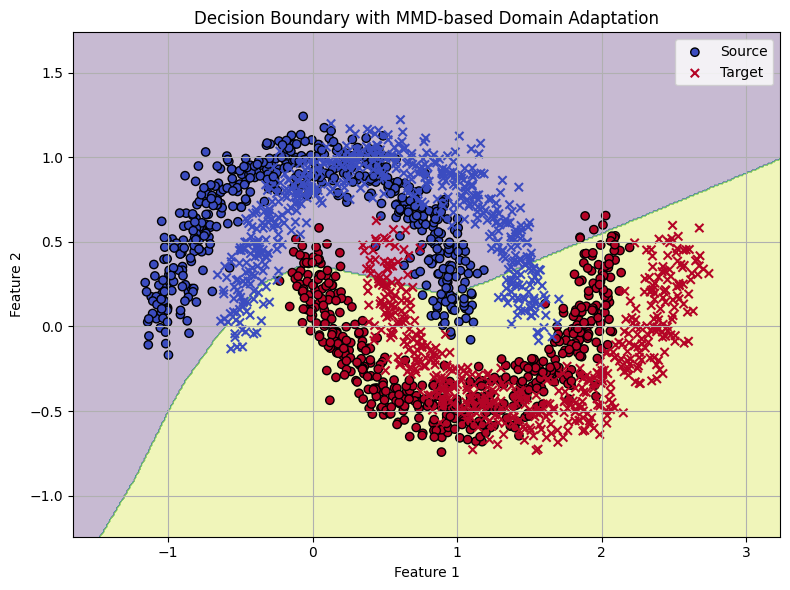
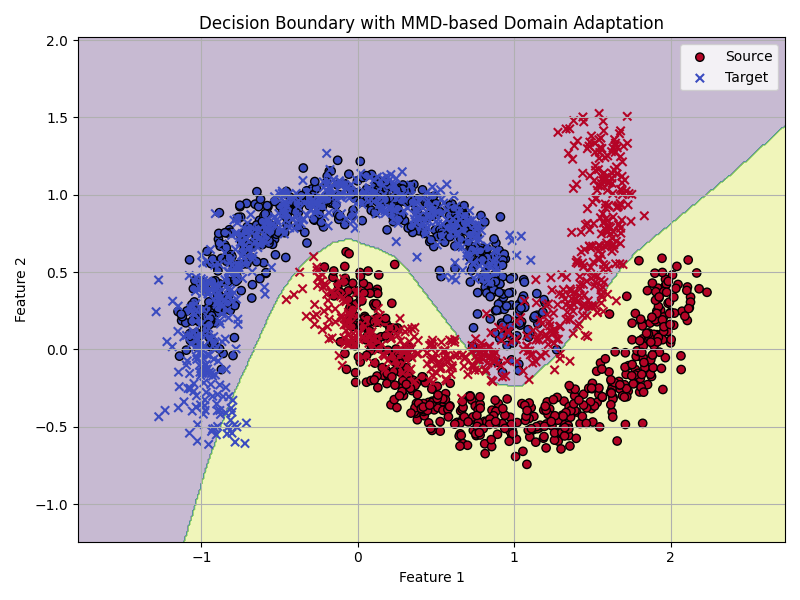
Add images for domain shift example and MMD adaptation to presentation

diff --git a/Report/presentation.tex b/Report/presentation.tex
@@ -11,12 +11,14 @@
 \usepackage{caption}
 \usepackage{adjustbox}
 \usepackage{graphicx}
-\usetheme{Madrid}
-\usecolortheme{seahorse}
+% \usetheme{Madrid}
+% \usecolortheme{seahorse}
+\usetheme{CambridgeUS}
+\usecolortheme{crane}
 
 \graphicspath{{./a/}}
 
-\title[Unsupervised Domain Adaptation]{Unsupervised Domain Adaptation}
+\title{Unsupervised Domain Adaptation}
 \author{}
 \institute{Indian Institute of Science, Bangalore}
 \date{\today}
@@ -26,46 +28,89 @@
 % Title Slide
 \frame{\titlepage}
 
-% Slide 1 - Motivation
-\begin{frame}{Motivation}
-\begin{itemize}
-    \item \textbf{Domain adaptation} aims to transfer knowledge from a source domain to a target domain with different data distributions.
-    \item In the \textbf{unsupervised} setting, only source domain data is labeled; target domain data is unlabeled.
-    \item Standard learning techniques fail due to the \textbf{domain shift}.
-    \item To address this, we train models to learn \textbf{domain-invariant features} that perform well across domains.
-\end{itemize}
-\end{frame}
-
-% Slide 2 - Setup
-\begin{frame}{Domain Adaptation Setup}
-\begin{itemize}
-    \item Input space: $\mathcal{X}$, Label space: $\mathcal{Y} = \{0, 1, \ldots, L-1\}$
-    \item \textbf{Source distribution:} $\mathcal{D}_S$ over $\mathcal{X} \times \mathcal{Y}$
-    \item \textbf{Target distribution:} $\mathcal{D}_T$ over $\mathcal{X} \times \mathcal{Y}$
-    \item Training data:
+\begin{frame}
+    \frametitle{Project Motivation}
+    Our goal is to explore the field of \textbf{Unsupervised Domain Adaptation (UDA)} and Implement some of the state-of-the-art methods.\\
+    Flow of the presentation:
     \begin{itemize}
-        \item Labeled source set: $S = \{(x_i, y_i)\}_{i=1}^{n}$
-        \item Unlabeled target set: $T = \{x_j\}_{j=1}^{n'}$
+        \item Introduction to UDA
+        \item Domain-Adversarial Training of Neural Networks (DANN)
+        \item Survey of Other Methods of UDA
+        \begin{itemize}
+            \item Divergence Based Methods
+            \item Reconstruction Based Methods
+            \item Ensemble Methods
+        \end{itemize}
+    \end{itemize}    
+
+\end{frame}
+
+\begin{frame}
+    \frametitle{What is UDA?}
+    \textbf{Domain Adaptation (DA)} is a subfield of machine learning that focuses on transferring knowledge from a source domain to a target domain with different data distributions.\\
+    \textbf{Key Idea:} The goal is to learn a model that performs well on the target domain, even when only labeled data from the source domain is available.\\
+    \textbf{Challenges:} The main challenge in UDA is the domain shift, which occurs when the source and target domains have different distributions. This can lead to poor performance of standard learning techniques.\\
+    \begin{figure}
+        \centering
+        \includegraphics[width=0.5\linewidth]{Example of Domain Shift.png}
+        \caption{Example of domain shift between source and target domains}
+    \end{figure}
+\end{frame}
+
+\begin{frame}
+    \frametitle{What is UDA?}
+    In \textbf{Unsupervised Domain Adaptation (UDA)}, only the source domain data is labeled, while the target domain data is unlabeled.\\
+
+    \textbf{Applications:} 
+    \begin{itemize}
+        \item When shifting a model trained on \textbf{synthetic data} to \textbf{real-world data}, the model may not perform well due to the differences in data distributions.
+        \item For systems like \textbf{Security Cameras} and \textbf{Autonomous Driving}, the inputs to each camera belong to different domains. So we wish to adapt the model to the new domain.
     \end{itemize}
-\end{itemize}
-\end{frame}
 
-% Slide 3 - H-Divergence
-\begin{frame}{$\mathcal{H}$-Divergence}
-\[
-d_{\mathcal{H}}(\mathcal{D}_S^X, \mathcal{D}_T^X) = 2 \sup_{\eta \in \mathcal{H}} \left| \Pr_{x \sim \mathcal{D}_S^X}[\eta(x)=1] - \Pr_{x \sim \mathcal{D}_T^X}[\eta(x)=1] \right|
-\]
+    
 
-\begin{itemize}
-    \item Measures the ability of a hypothesis $\eta \in \mathcal{H}$ to distinguish between source and target distributions.
-    \item High $d_{\mathcal{H}}$ implies easy domain discrimination — bad for transfer.
-    \item For symmetric hypothesis classes, it can be estimated via:
-    \[
-    \hat{d}_A = 2 (1 - 2\epsilon)
-    \]
-    \item Here, $\epsilon$ is the generalization error of a domain classifier.
-\end{itemize}
 \end{frame}
+% % Slide 1 - Motivation
+% \begin{frame}{Project Motivation}
+
+% \begin{itemize}
+%     \item \textbf{Domain adaptation} aims to transfer knowledge from a source domain to a target domain with different data distributions.
+%     \item In the \textbf{unsupervised} setting, only source domain data is labeled; target domain data is unlabeled.
+%     \item Standard learning techniques fail due to the \textbf{domain shift}.
+%     \item To address this, we train models to learn \textbf{domain-invariant features} that perform well across domains.
+% \end{itemize}
+% \end{frame}
+
+% % Slide 2 - Setup
+% \begin{frame}{Domain Adaptation Setup}
+% \begin{itemize}
+%     \item Input space: $\mathcal{X}$, Label space: $\mathcal{Y} = \{0, 1, \ldots, L-1\}$
+%     \item \textbf{Source distribution:} $\mathcal{D}_S$ over $\mathcal{X} \times \mathcal{Y}$
+%     \item \textbf{Target distribution:} $\mathcal{D}_T$ over $\mathcal{X} \times \mathcal{Y}$
+%     \item Training data:
+%     \begin{itemize}
+%         \item Labeled source set: $S = \{(x_i, y_i)\}_{i=1}^{n}$
+%         \item Unlabeled target set: $T = \{x_j\}_{j=1}^{n'}$
+%     \end{itemize}
+% \end{itemize}
+% \end{frame}
+
+% % Slide 3 - H-Divergence
+% \begin{frame}{$\mathcal{H}$-Divergence}
+% \[
+% d_{\mathcal{H}}(\mathcal{D}_S^X, \mathcal{D}_T^X) = 2 \sup_{\eta \in \mathcal{H}} \left| \Pr_{x \sim \mathcal{D}_S^X}[\eta(x)=1] - \Pr_{x \sim \mathcal{D}_T^X}[\eta(x)=1] \right|
+% \]
+
+% \begin{itemize}
+%     \item Measures the ability of a hypothesis $\eta \in \mathcal{H}$ to distinguish between source and target distributions.
+%     \item High $d_{\mathcal{H}}$ implies easy domain discrimination — bad for transfer.
+%     \item For symmetric hypothesis classes, it can be estimated via:
+%     \[
+%     \hat{d}_A = 2 (1 - 2\epsilon)
+%     \]
+%     \item Here, $\epsilon$ is the generalization error of a domain classifier.
+% \end{itemize}
+% \end{frame}
 
 % Slide 4 - DANN Architecture
 \begin{frame}{DANN Architecture}
@@ -74,6 +119,13 @@ d_{\mathcal{H}}(\mathcal{D}_S^X, \mathcal{D}_T^X) = 2 \sup_{\eta \in \mathcal{H}
     \includegraphics[width=0.9\linewidth]{DANN_img.png}
     \caption{Domain-Adversarial Neural Network (DANN) Architecture}
 \end{figure}
+\end{frame}
+
+\begin{frame}
+    \frametitle{DANN}
+    
+    
+
 \end{frame}
 
 % Slide 5 - Key Idea
@@ -248,32 +300,32 @@ The structure of source and target distributions is shown below:
 
 \end{frame}
 
-\begin{frame}{\centering \large MNIST $\rightarrow$ MNIST-M: Top Feature Extractor Layer}
-\centering
+% \begin{frame}{\centering \large MNIST $\rightarrow$ MNIST-M: Top Feature Extractor Layer}
+% \centering
 
-\begin{adjustbox}{max width=\textwidth}
-\begin{tabular}{cc}
-% Left Image
-\begin{subfigure}[t]{0.45\textwidth}
-    \centering
-    \includegraphics[width=\linewidth]{Source-only.png}
-    \caption{Non-adapted}
-\end{subfigure}
-&
-% Right Image
-\begin{subfigure}[t]{0.45\textwidth}
-    \centering
-    \includegraphics[width=\linewidth]{DANN.png}
-    \caption{Adapted}
-\end{subfigure}
-\end{tabular}
-\end{adjustbox}
+% \begin{adjustbox}{max width=\textwidth}
+% \begin{tabular}{cc}
+% % Left Image
+% \begin{subfigure}[t]{0.45\textwidth}
+%     \centering
+%     \includegraphics[width=\linewidth]{Source-only.png}
+%     \caption{Non-adapted}
+% \end{subfigure}
+% &
+% % Right Image
+% \begin{subfigure}[t]{0.45\textwidth}
+%     \centering
+%     \includegraphics[width=\linewidth]{DANN.png}
+%     \caption{Adapted}
+% \end{subfigure}
+% \end{tabular}
+% \end{adjustbox}
 
-\vspace{0.3cm}
-\small
-\textbf{Figure:} t-SNE visualizations of extracted features. \textcolor{blue}{Blue} points: source domain (MNIST); \textcolor{red}{Red} points: target domain (MNIST-M). Adaptation aligns distributions better.
+% \vspace{0.3cm}
+% \small
+% \textbf{Figure:} t-SNE visualizations of extracted features. \textcolor{blue}{Blue} points: source domain (MNIST); \textcolor{red}{Red} points: target domain (MNIST-M). Adaptation aligns distributions better.
 
-\end{frame}
+% \end{frame}
 
 \begin{frame}
     \frametitle{Ensemble Methods}
